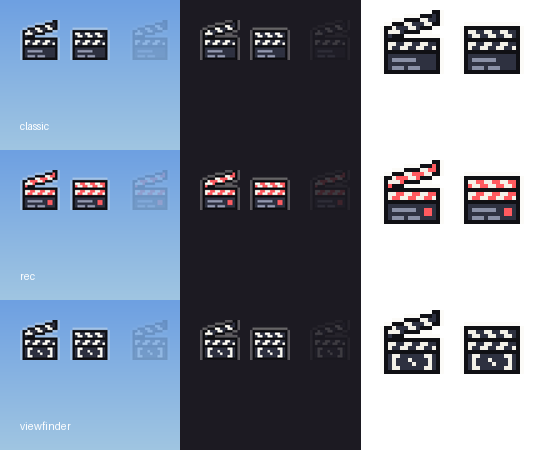
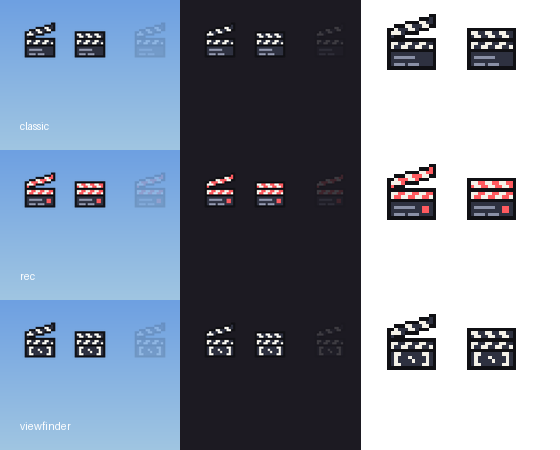
Fix clapper texture fringes: clear margin, no halo, outline-coloured transparent pixels
The sprite touched the frame edges, so filtering pulled the opposite edge's dark
outline in (thin black lines top/bottom); the faint white halo sat on black-RGB
transparent pixels and blended into grey fringes. Now: 8 px clear margin per frame,
no halo, transparent pixels carry the outline colour. Same 256x128, same prim settings.

Claude-Session: https://claude.ai/code/session_017fxCDsK7kSKGLKYB8MXKf1

diff --git a/tools/art/make_icon.py b/tools/art/make_icon.py
@@ -15,7 +15,8 @@ import os, sys
 from PIL import Image, ImageDraw
 
 DEFAULT = "rec"            # chosen on the design board
-N, SCALE = 16, 8
+N, SCALE = 16, 7          # 16 px sprite x7 = 112 px, centred in a 128x128 frame (8 px clear margin all round)
+FRAME, PAD = 128, 8
 
 PAL = {
     "K": (16, 16, 20, 255),      # outline
@@ -24,7 +25,6 @@ PAL = {
     "H": (138, 144, 166, 255),   # chalk lines
     "C": (255, 90, 95, 255),     # coral accent
 }
-RIM = (244, 241, 232, 80)        # faint light halo so the dark outline still reads on dark rooms
 
 def blank():
     return [["." for _ in range(N)] for _ in range(N)]
@@ -69,21 +69,21 @@ def draw(open_, v):
     return g
 
 def frame_img(g):
-    im = Image.new("RGBA", (N, N), (0, 0, 0, 0))
+    # transparent pixels carry the OUTLINE colour (alpha 0), so smoothing/mip-mapping in the viewer never
+    # blends in black or white fringes. No halo. The sprite sits inside a clear margin so the frame edges
+    # (and the neighbouring frame) never bleed in.
+    im = Image.new("RGBA", (N, N), PAL["K"][:3] + (0,))
     for y in range(N):
         for x in range(N):
             if g[y][x] != ".":
                 im.putpixel((x, y), PAL[g[y][x]])
-            elif any(0 <= x + dx < N and 0 <= y + dy < N and g[y + dy][x + dx] != "."
-                     for dx, dy in ((1, 0), (-1, 0), (0, 1), (0, -1))):
-                im.putpixel((x, y), RIM)
-    return im
+    return im.resize((N * SCALE, N * SCALE), Image.NEAREST)
 
 def sheet(v):
-    s = Image.new("RGBA", (2 * N, N), (0, 0, 0, 0))
-    s.paste(frame_img(draw(True, v)), (0, 0))
-    s.paste(frame_img(draw(False, v)), (N, 0))
-    return s.resize((2 * N * SCALE, N * SCALE), Image.NEAREST)
+    s = Image.new("RGBA", (2 * FRAME, FRAME), PAL["K"][:3] + (0,))
+    for i, o in enumerate((True, False)):
+        s.paste(frame_img(draw(o, v)), (i * FRAME + PAD, PAD))
+    return s
 
 def preview(variants, out):
     # each variant: 40 px (as on screen) over sky and over a dark room, frames x4, faded at 15 %
